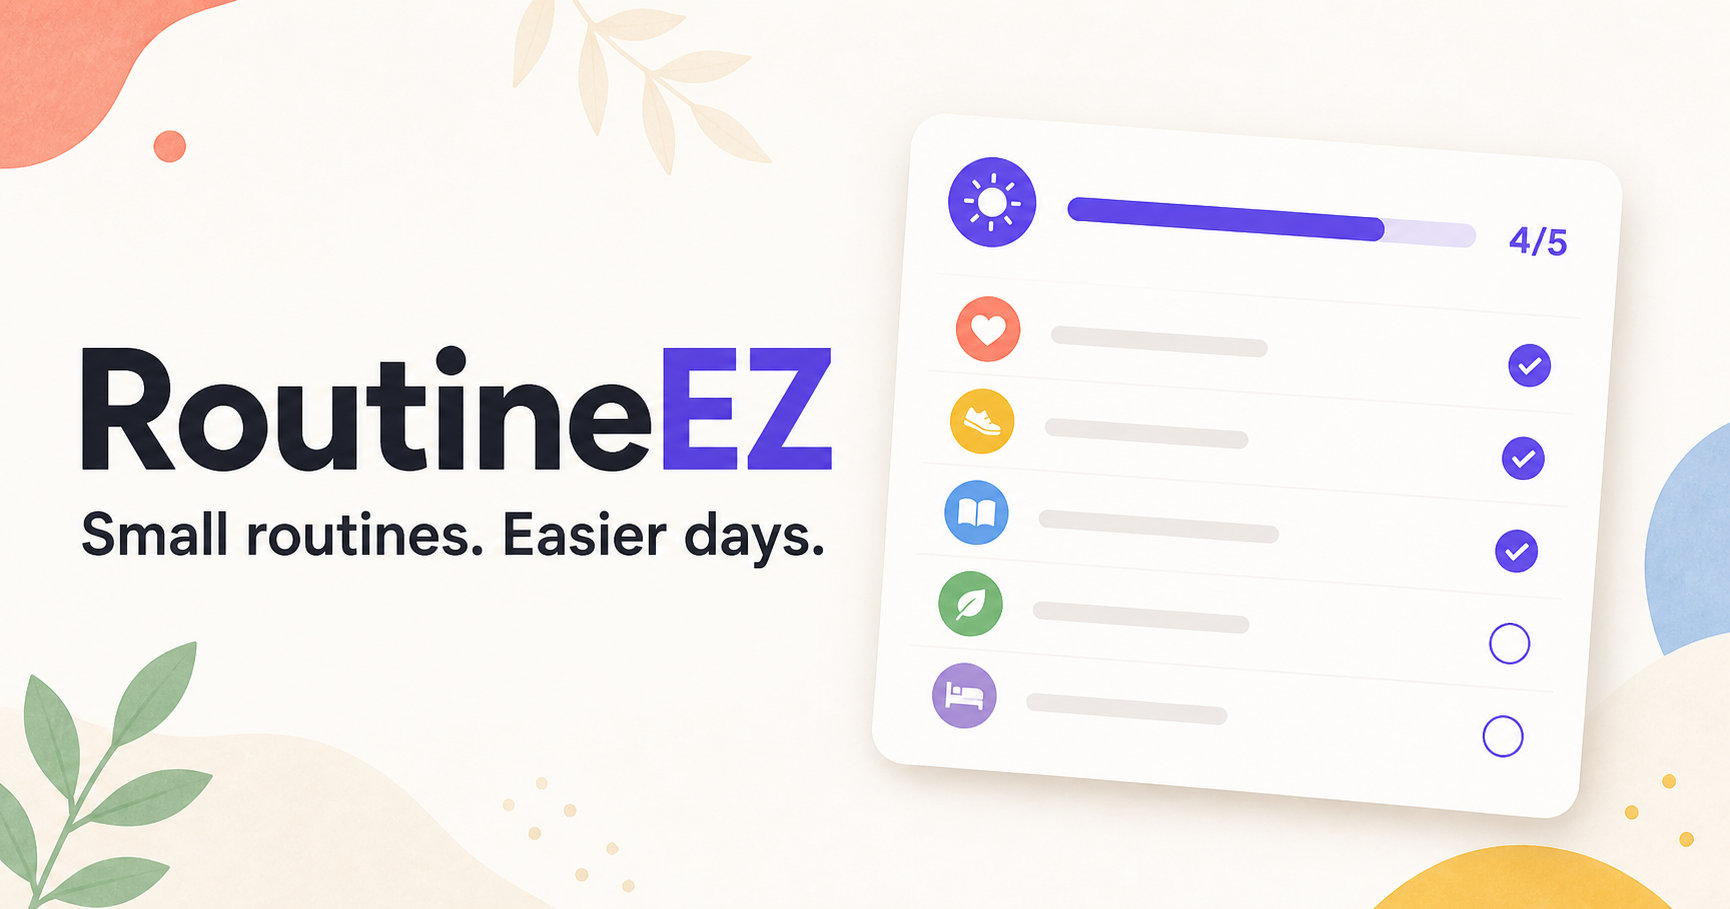
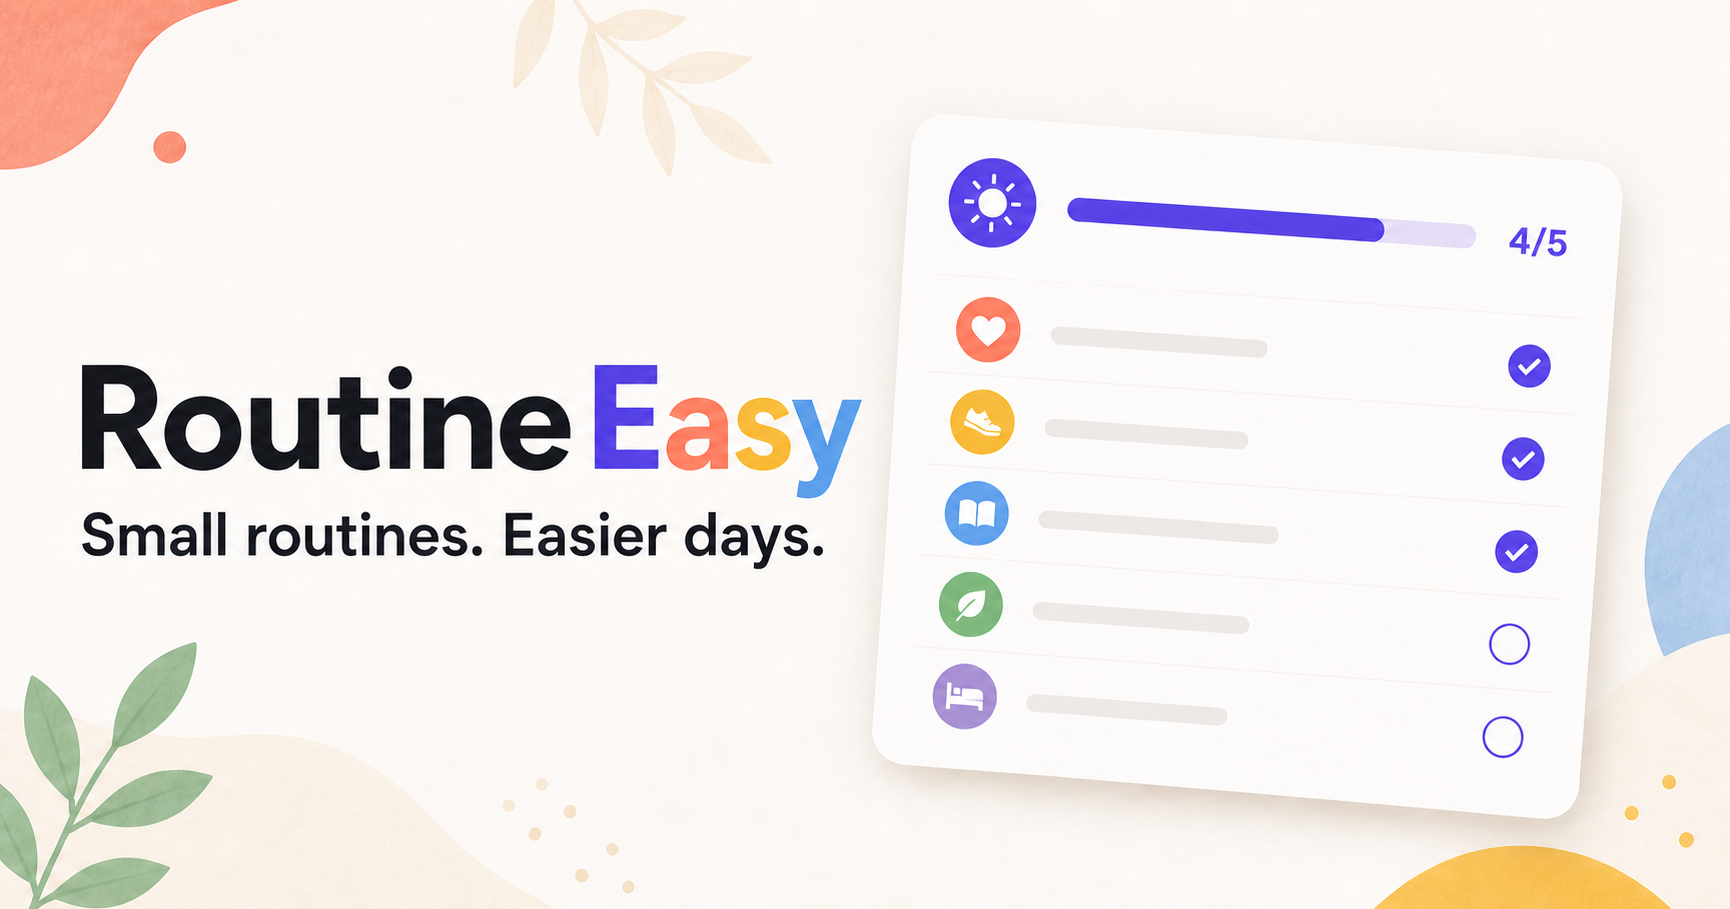
Rename brand to Routine Easy

diff --git a/app/page.tsx b/app/page.tsx
@@ -570,9 +570,9 @@ export default function Home() {
   return (
     <main className={`app-shell${preferences.motion === "reduced" ? " reduce-motion" : ""}`}>
       <aside className="sidebar">
-        <div className="brand" aria-label="RoutineEZ home">
+        <div className="brand" aria-label="Routine Easy home">
           <img className="brand-logo" src="/routineez-checklist.png" alt="" />
-          <span>Routine<span className="brand-ez"><span className="brand-e">E</span><span className="brand-z">Z</span></span></span>
+          <span>Routine<EasyWord className="brand-easy" /></span>
         </div>
         <nav className="side-nav" aria-label="Main navigation">
           <NavButton active={tab === "today"} onClick={() => setTab("today")} icon={CircleCheckBig} label="Today" />
@@ -591,18 +591,18 @@ export default function Home() {
       <section className="content">
         <header className="mobile-header">
           <button className={`mobile-profile${showProfile ? " active" : ""}`} onClick={() => setShowProfile((visible) => !visible)} aria-label="Open profile" aria-expanded={showProfile}><CircleUserRound aria-hidden="true" /></button>
-          <div className="mobile-wordmark" aria-label="RoutineEZ">
+          <div className="mobile-wordmark" aria-label="Routine Easy">
             <img src="/routineez-checklist.png" alt="" />
-            <span className="mobile-wordmark-name">Routine<span className="mobile-wordmark-ez"><span className="brand-e">E</span><span className="brand-z">Z</span></span></span>
+            <span className="mobile-wordmark-name">Routine<EasyWord className="mobile-wordmark-easy" /></span>
           </div>
           <button className="mobile-add premium-action" onClick={openAddFromHeader} aria-label="Add routine"><span aria-hidden="true">+</span></button>
         </header>
 
         {showProfile && <div className="profile-popover-backdrop" onMouseDown={(event) => { if (event.target === event.currentTarget) setShowProfile(false); }}>
-          <section className="profile-card" role="dialog" aria-label="Your RoutineEZ profile">
+          <section className="profile-card" role="dialog" aria-label="Your Routine Easy profile">
             <button className="profile-close" onClick={() => setShowProfile(false)} aria-label="Close profile">×</button>
             <div className="profile-avatar"><CircleUserRound aria-hidden="true" /></div>
-            <div className="profile-copy"><small>Your profile</small><h2>My Routine<span className="brand-ez"><span className="brand-e">E</span><span className="brand-z">Z</span></span></h2><p>Small routines. Easier days.</p></div>
+            <div className="profile-copy"><small>Your profile</small><h2>My Routine<EasyWord className="brand-easy" /></h2><p>Small routines. Easier days.</p></div>
             <div className="profile-stats"><div><strong>{routines.length}</strong><span>Routines</span></div><div><strong>{doneCount}/{eligibleTodayRoutines.length}</strong><span>Done today</span></div></div>
             <div className="profile-actions">
               <button className="profile-settings-button" onClick={openSettings}><Settings2 aria-hidden="true" />Settings</button>
@@ -774,7 +774,7 @@ function HistoryPage({ routines, selectedRoutine, onSelectRoutine, completions, 
 
 function SettingsPage({ preferences, onChange }: { preferences: AppPreferences; onChange: (next: Partial<AppPreferences>) => void }) {
   return <div className="page settings-page">
-    <header className="settings-heading"><span>Make it yours</span><h1>Settings</h1><p>Choose how RoutineEZ looks and feels. Changes save automatically on this device.</p></header>
+    <header className="settings-heading"><span>Make it yours</span><h1>Settings</h1><p>Choose how Routine Easy looks and feels. Changes save automatically on this device.</p></header>
     <div className="settings-list">
       <section className="setting-card">
         <div className="setting-icon"><Clock3 aria-hidden="true" /></div>
@@ -811,7 +811,7 @@ function OnboardingPage({ onComplete }: { onComplete: (addRoutine?: boolean) => 
     <div className="onboarding-glow glow-two" aria-hidden="true" />
     <section className="onboarding-card" aria-labelledby="onboarding-title">
       <header className="onboarding-top">
-        <div className="brand" aria-label="RoutineEZ"><img className="brand-logo" src="/routineez-checklist.png" alt="" /><span>Routine<span className="brand-ez"><span className="brand-e">E</span><span className="brand-z">Z</span></span></span></div>
+        <div className="brand" aria-label="Routine Easy"><img className="brand-logo" src="/routineez-checklist.png" alt="" /><span>Routine<EasyWord className="brand-easy" /></span></div>
         <button className="onboarding-skip" onClick={() => onComplete(false)}>Skip for now</button>
       </header>
       <div className="onboarding-layout">
@@ -819,7 +819,7 @@ function OnboardingPage({ onComplete }: { onComplete: (addRoutine?: boolean) => 
           <p className="eyebrow">Welcome to your new rhythm</p>
           <h1 id="onboarding-title">Small routines.<br /><span>Easier days.</span></h1>
           <p className="onboarding-lead">Plan the little things that keep your day moving—from workouts and vitamins to breakfast, lunch, and dinner.</p>
-          <div className="onboarding-benefits" aria-label="RoutineEZ features">
+          <div className="onboarding-benefits" aria-label="Routine Easy features">
             <div><span className="benefit-icon purple">✓</span><p><strong>Simple check-offs</strong><small>See today and keep moving.</small></p></div>
             <div><span className="benefit-icon coral">●</span><p><strong>Color-coded plans</strong><small>Your routines at a glance.</small></p></div>
             <div><span className="benefit-icon green">↗</span><p><strong>Gentle progress</strong><small>Small wins that add up.</small></p></div>
@@ -829,7 +829,7 @@ function OnboardingPage({ onComplete }: { onComplete: (addRoutine?: boolean) => 
         </div>
         <div className="onboarding-visual">
           <div className="onboarding-image-wrap">
-            <img src="/og.png" alt="RoutineEZ color-coded routine checklist preview" />
+            <img src="/og.png" alt="Routine Easy color-coded routine checklist preview" />
           </div>
           <div className="onboarding-mini-card"><span>✦</span><div><strong>A calmer day starts small.</strong><small>One routine is enough.</small></div></div>
         </div>
@@ -839,7 +839,7 @@ function OnboardingPage({ onComplete }: { onComplete: (addRoutine?: boolean) => 
 }
 
 function OnboardingSplash() {
-  return <main className="onboarding-splash" aria-label="Loading RoutineEZ">
+  return <main className="onboarding-splash" aria-label="Loading Routine Easy">
     <div className="splash-blobs" aria-hidden="true">
       <span className="splash-blob splash-blob-purple"><i /></span>
       <span className="splash-blob splash-blob-coral"><i /></span>
@@ -849,10 +849,14 @@ function OnboardingSplash() {
     <div className="splash-brand">
       <img className="splash-logo" src="/routineez-checklist.png" alt="" />
       <div className="splash-wordmark" aria-hidden="true">
-        <span className="splash-routine">Routine</span><span className="splash-ez"><span className="brand-e">E</span><span className="brand-z">Z</span></span>
+        <span className="splash-routine">Routine</span><EasyWord className="splash-easy" />
       </div>
     </div>
   </main>;
+}
+
+function EasyWord({ className }: { className: string }) {
+  return <span className={className} aria-hidden="true"><span className="easy-e">E</span><span className="easy-a">a</span><span className="easy-s">s</span><span className="easy-y">y</span></span>;
 }
 
 function NavButton({ active, onClick, icon: Icon, label }: { active: boolean; onClick: () => void; icon: LucideIcon; label: string }) {

diff --git a/app/globals.css b/app/globals.css
@@ -84,7 +84,7 @@ button { color: inherit; }
 .splash-logo { display: block; width: 94px; height: 94px; object-fit: contain; filter: drop-shadow(0 13px 20px rgba(79,57,193,.24)); animation: splash-icon-in .62s cubic-bezier(.2,.9,.28,1.22) both; }
 .splash-wordmark { display: flex; align-items: baseline; color: #1d1f29; font-size: 25px; font-weight: 850; letter-spacing: -.85px; line-height: 1; }
 .splash-routine { animation: splash-routine-in .56s cubic-bezier(.2,.9,.25,1.2) .5s both; }
-.splash-ez { margin-left: 1px; font-size: .82em; font-weight: 800; letter-spacing: -.4px; animation: splash-ez-in .48s cubic-bezier(.2,.9,.25,1.18) 1.02s both; }
+.splash-easy { margin-left: 3px; font-size: .78em; font-weight: 800; letter-spacing: -.5px; animation: splash-easy-in .48s cubic-bezier(.2,.9,.25,1.18) 1.02s both; }
 @keyframes splash-icon-in {
   from { opacity: 0; transform: translateY(8px) scale(.72) rotate(-8deg); }
   70% { opacity: 1; transform: translateY(-2px) scale(1.05) rotate(1deg); }
@@ -95,7 +95,7 @@ button { color: inherit; }
   72% { opacity: 1; transform: translateY(2px) scale(1.01); }
   to { opacity: 1; transform: none; }
 }
-@keyframes splash-ez-in {
+@keyframes splash-easy-in {
   from { opacity: 0; transform: translateX(-8px) scale(.78); }
   72% { opacity: 1; transform: translateX(1px) scale(1.05); }
   to { opacity: 1; transform: none; }
@@ -611,7 +611,7 @@ button { color: inherit; }
   .mobile-wordmark { justify-self: center; display: flex; align-items: center; gap: 7px; color: #191b25; font-size: 19px; font-weight: 900; letter-spacing: -.85px; }
   .mobile-wordmark img { width: 38px; height: 38px; object-fit: contain; transform: translateY(2px); filter: drop-shadow(0 0 13px rgba(32,34,44,.3)) drop-shadow(0 0 5px rgba(73,75,84,.34)); }
   .mobile-wordmark-name { display: inline-flex; align-items: baseline; color: #191b25; line-height: 1; }
-  .mobile-wordmark .mobile-wordmark-ez { margin-left: 1px; font-size: .82em; font-weight: 800; letter-spacing: -.45px; }
+  .mobile-wordmark .mobile-wordmark-easy { margin-left: 3px; font-size: .74em; font-weight: 800; letter-spacing: -.55px; }
   .mobile-add { justify-self: end; display: grid; place-items: center; width: 40px; height: 40px; padding: 0; border: 1px solid rgba(255,255,255,.82); border-radius: 50%; background: linear-gradient(145deg, #735ff1, #593fdf); color: #fff; box-shadow: 0 10px 24px rgba(82,66,194,.3), inset 0 1px 0 rgba(255,255,255,.35); cursor: pointer; transition: transform .18s ease, box-shadow .18s ease; }
   .mobile-add > span { display: grid; place-items: center; width: 100%; height: 100%; padding-bottom: 2px; font-family: Arial, sans-serif; font-size: 25px; font-weight: 400; line-height: 1; transition: transform .38s cubic-bezier(.2,.9,.25,1.3); }
   .mobile-add:active { transform: scale(.94); box-shadow: 0 5px 14px rgba(82,66,194,.25); }
@@ -840,12 +840,20 @@ button { color: inherit; }
 @keyframes nav-pop { 0% { transform: translateY(2px) scale(.78); } 70% { transform: translateY(-2px) scale(1.1); } 100% { transform: translateY(-1px) scale(1); } }
 
 /* App-icon palette: one coordinated system instead of a purple-only UI. */
-.brand-ez, .mobile-wordmark-ez, .splash-ez {
+.brand-easy, .mobile-wordmark-easy, .splash-easy {
+  display: inline-flex;
+  align-items: baseline;
+  margin-left: 3px;
+  font-size: .78em;
+  font-weight: 800;
+  letter-spacing: -.55px;
   background: none;
   -webkit-text-fill-color: currentColor;
 }
-.brand-e { color: var(--sky); -webkit-text-fill-color: var(--sky); }
-.brand-z { color: var(--coral); -webkit-text-fill-color: var(--coral); }
+.easy-e { color: var(--purple); -webkit-text-fill-color: var(--purple); }
+.easy-a { color: var(--coral); -webkit-text-fill-color: var(--coral); }
+.easy-s { color: var(--gold); -webkit-text-fill-color: var(--gold); }
+.easy-y { color: var(--sky); -webkit-text-fill-color: var(--sky); }
 .premium-action {
   background: var(--sky);
   box-shadow: 0 10px 22px rgba(77,150,255,.24), inset 0 1px 0 rgba(255,255,255,.42);

diff --git a/app/layout.tsx b/app/layout.tsx
@@ -7,13 +7,13 @@ export async function generateMetadata(): Promise<Metadata> {
   const host = requestHeaders.get("x-forwarded-host") ?? requestHeaders.get("host") ?? "localhost:3000";
   const protocol = requestHeaders.get("x-forwarded-proto") ?? (host.startsWith("localhost") ? "http" : "https");
   const origin = `${protocol}://${host}`;
-  const title = "RoutineEZ — Simple Routine Tracker";
+  const title = "Routine Easy — Simple Routine Tracker";
   const description = "Small routines. Easier days. A calm, colorful way to keep your day moving.";
   return {
     title,
     description,
     icons: { icon: "/routineez-logo.png", shortcut: "/routineez-logo.png", apple: "/routineez-logo.png" },
-    openGraph: { title, description, type: "website", images: [{ url: `${origin}/og.png`, width: 1200, height: 630, alt: "RoutineEZ routine tracker" }] },
+    openGraph: { title, description, type: "website", images: [{ url: `${origin}/og.png`, width: 1200, height: 630, alt: "Routine Easy routine tracker" }] },
     twitter: { card: "summary_large_image", title, description, images: [`${origin}/og.png`] },
   };
 }
